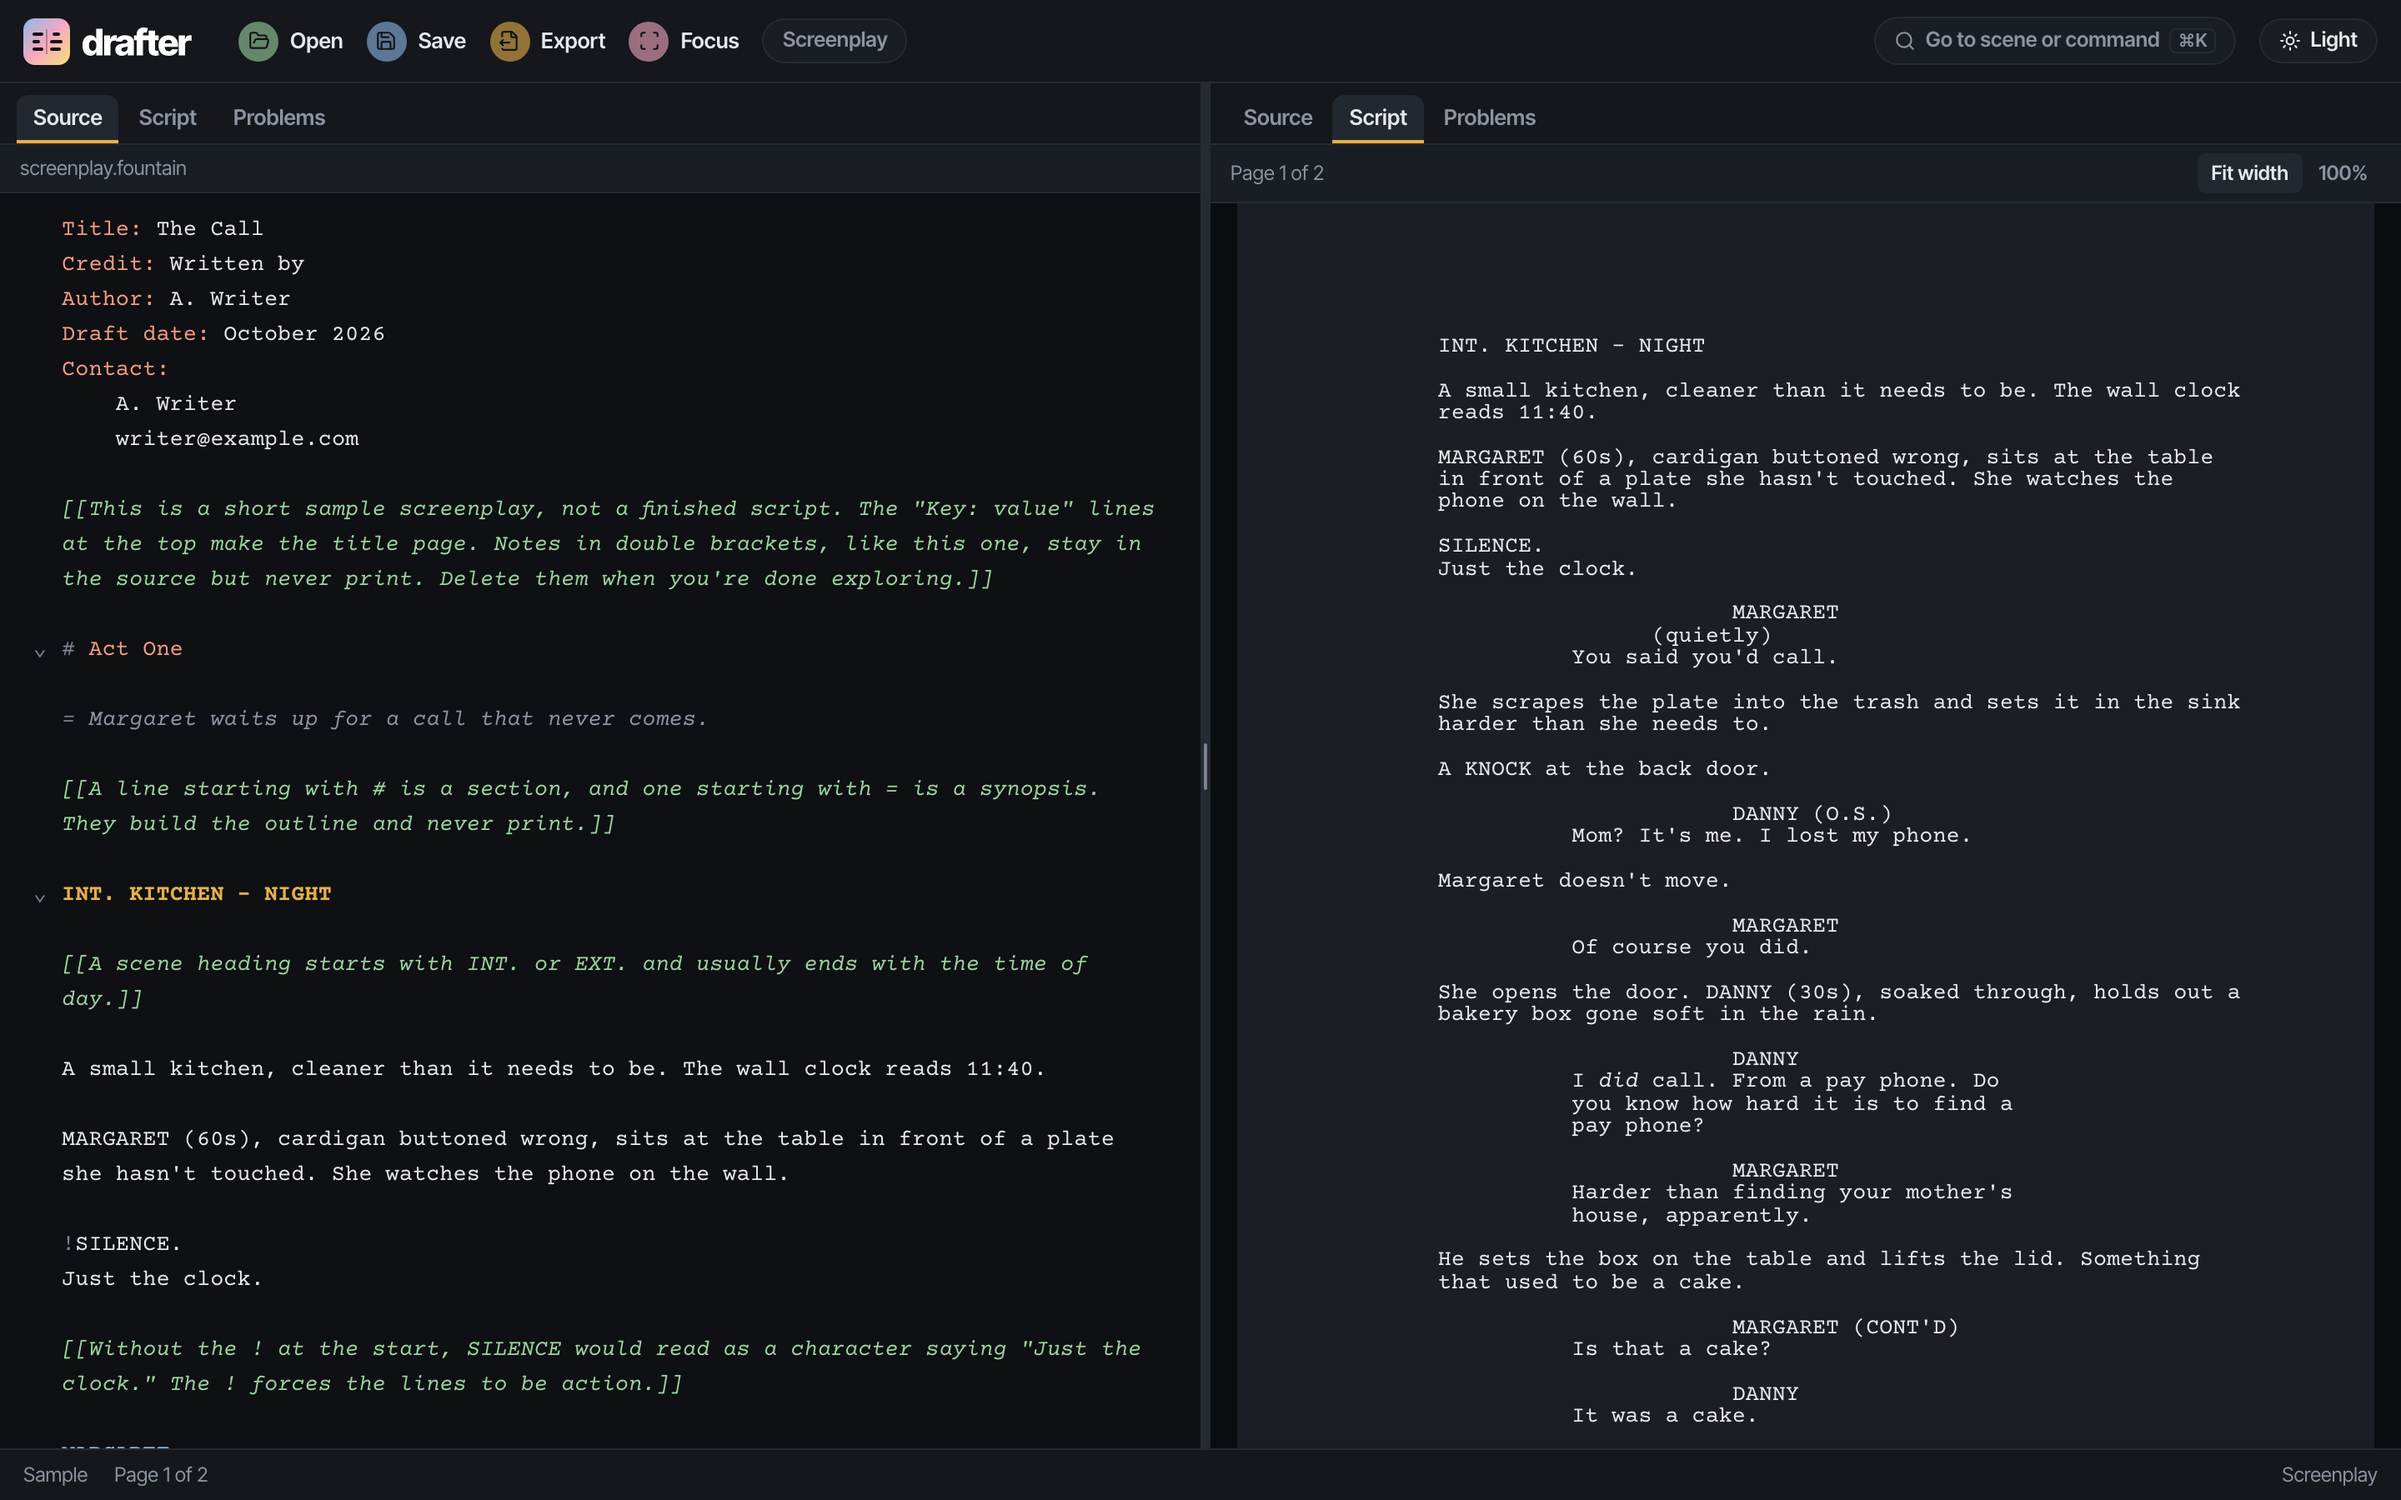
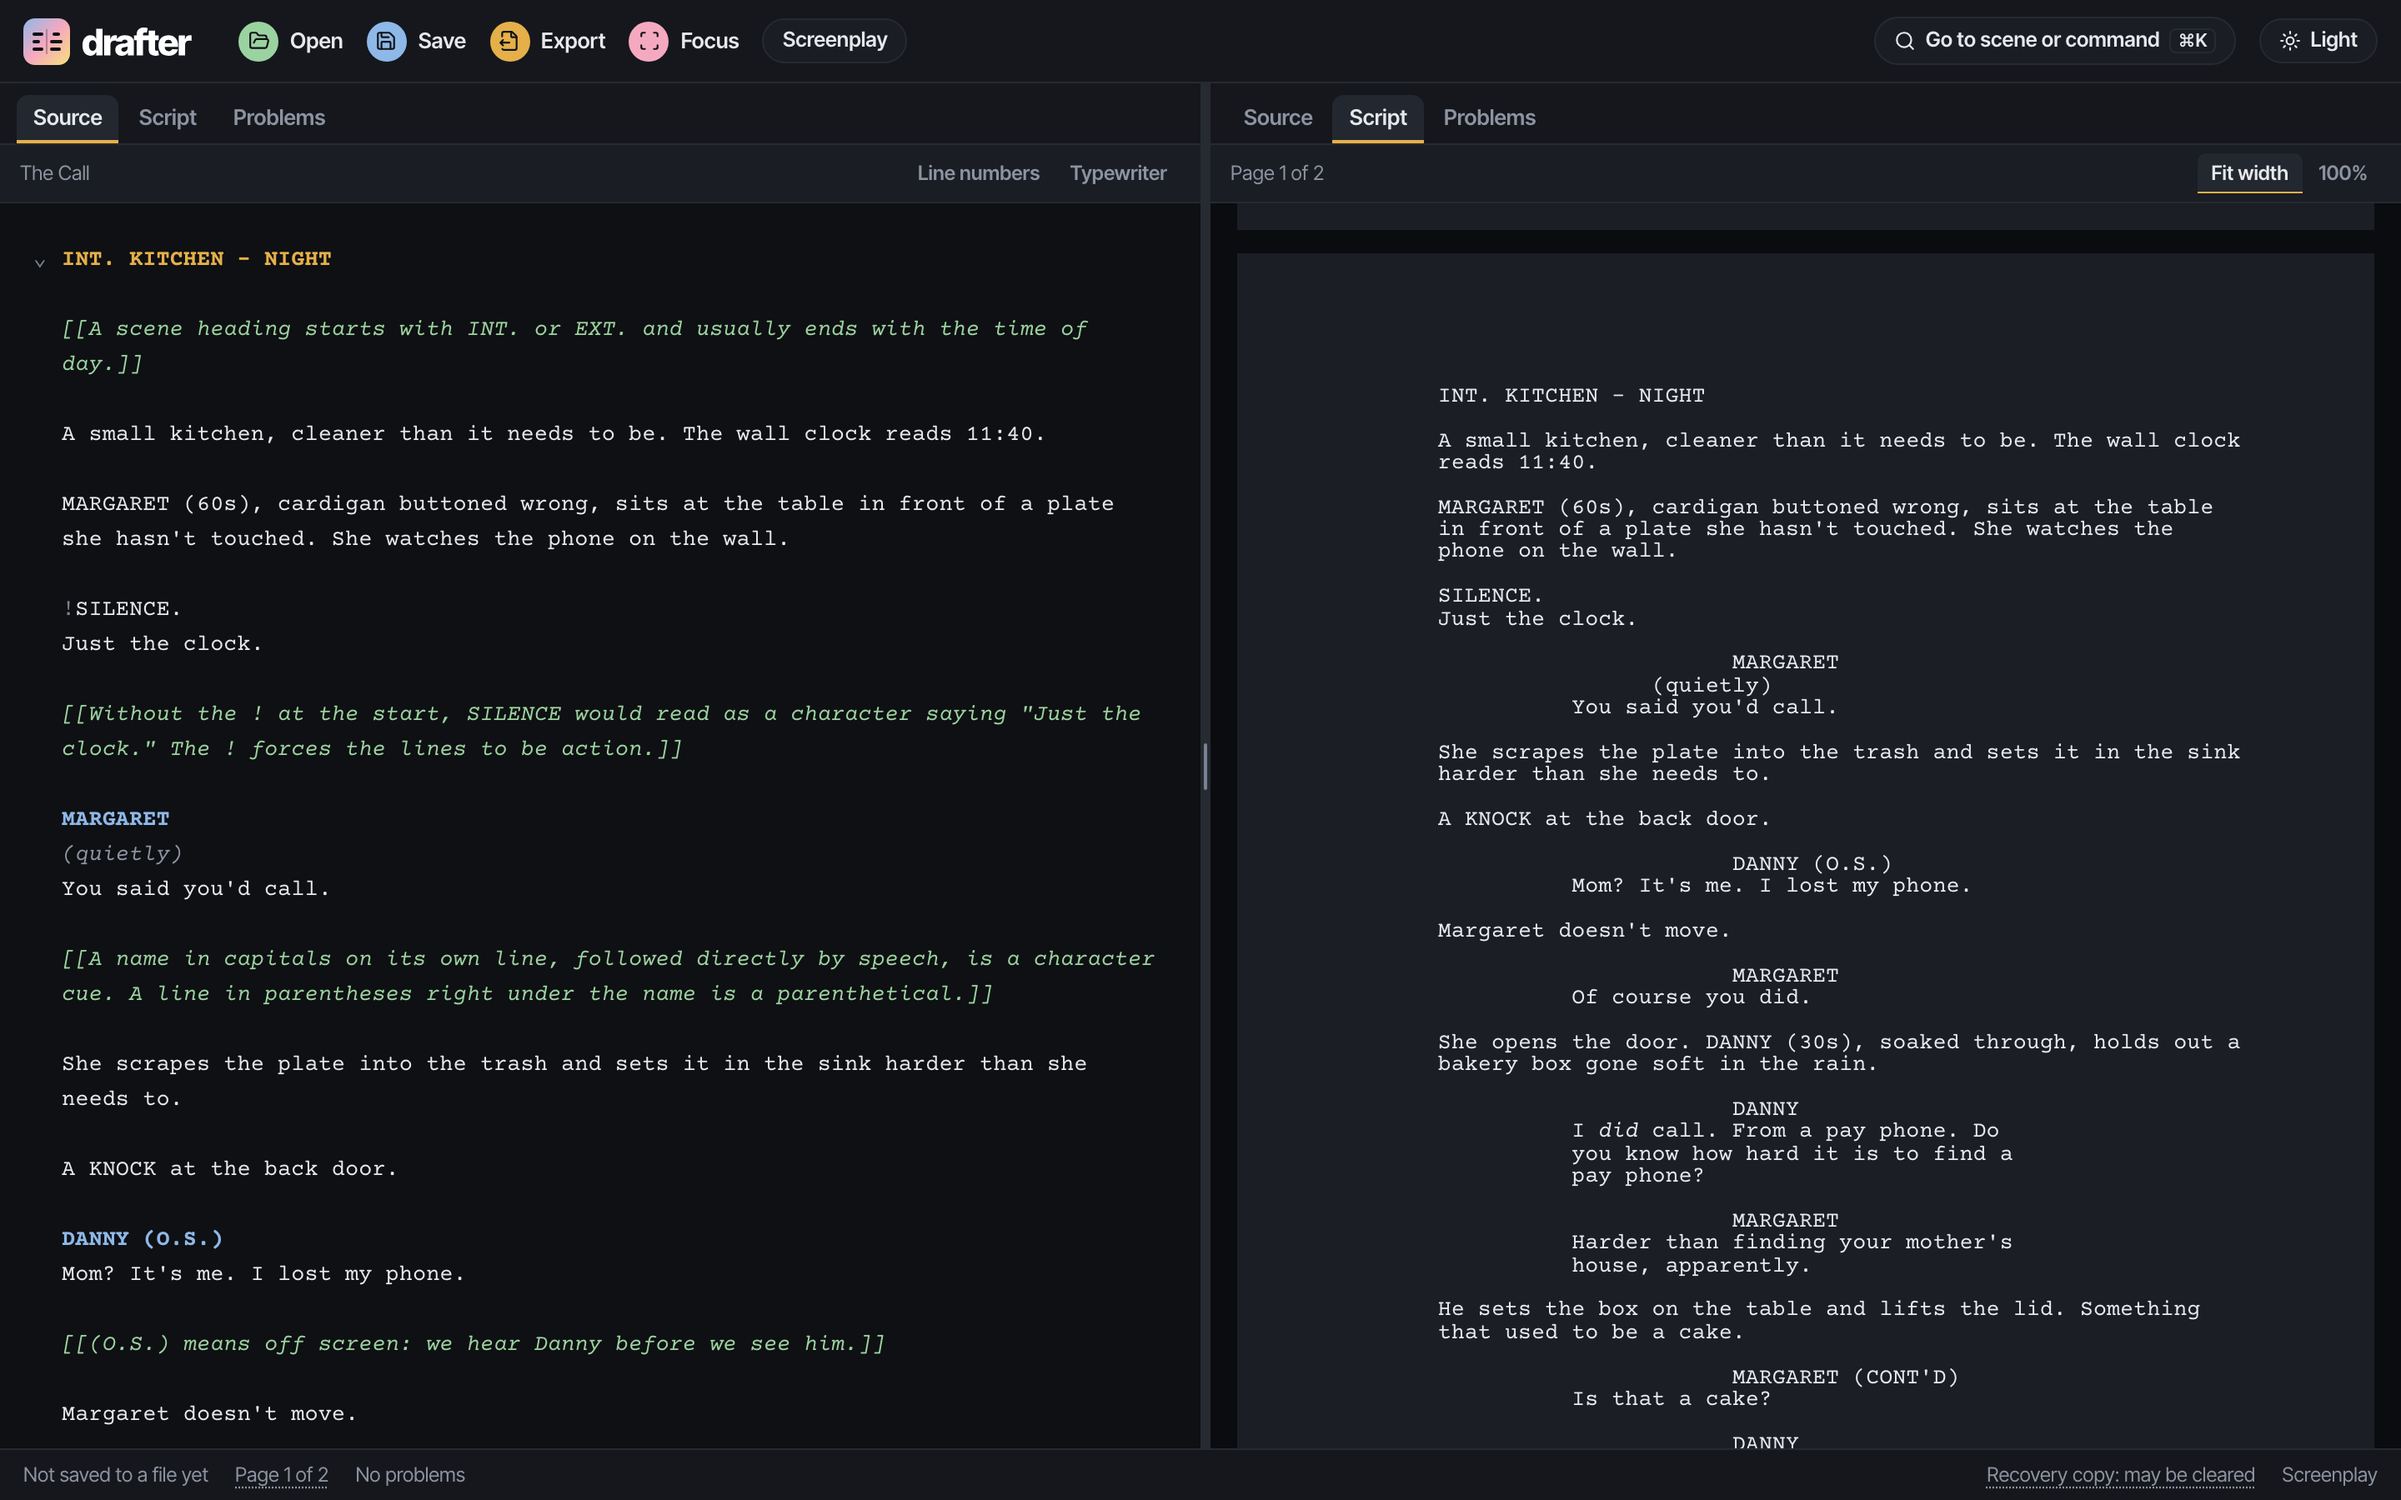
docs: show a scene in both panes in the README's screenshots

diff --git a/CHANGELOG.md b/CHANGELOG.md
@@ -6,6 +6,10 @@ The format follows [Keep a Changelog](https://keepachangelog.com/en/1.1.0/), and
 
 ## [Unreleased]
 
+### Changed
+
+- `docs`: the README's screenshots show a scene in both panes, the Fountain source on the left (a scene heading, action, character cues, a parenthetical, and dialogue) and the laid-out page on the right, instead of the title page's fields.
+
 ### Added
 
 - `docs`: the roadmap gains ways to see and work through a script: a script map, a pacing view with optional structure guides, a character-by-scene grid, scene goals, and setups and payoffs (Phase 2); French scenes, who is on stage, and a doubling chart for plays (Phase 3); a character pass, story order against script order, and a breakdown report (Phase 4).
